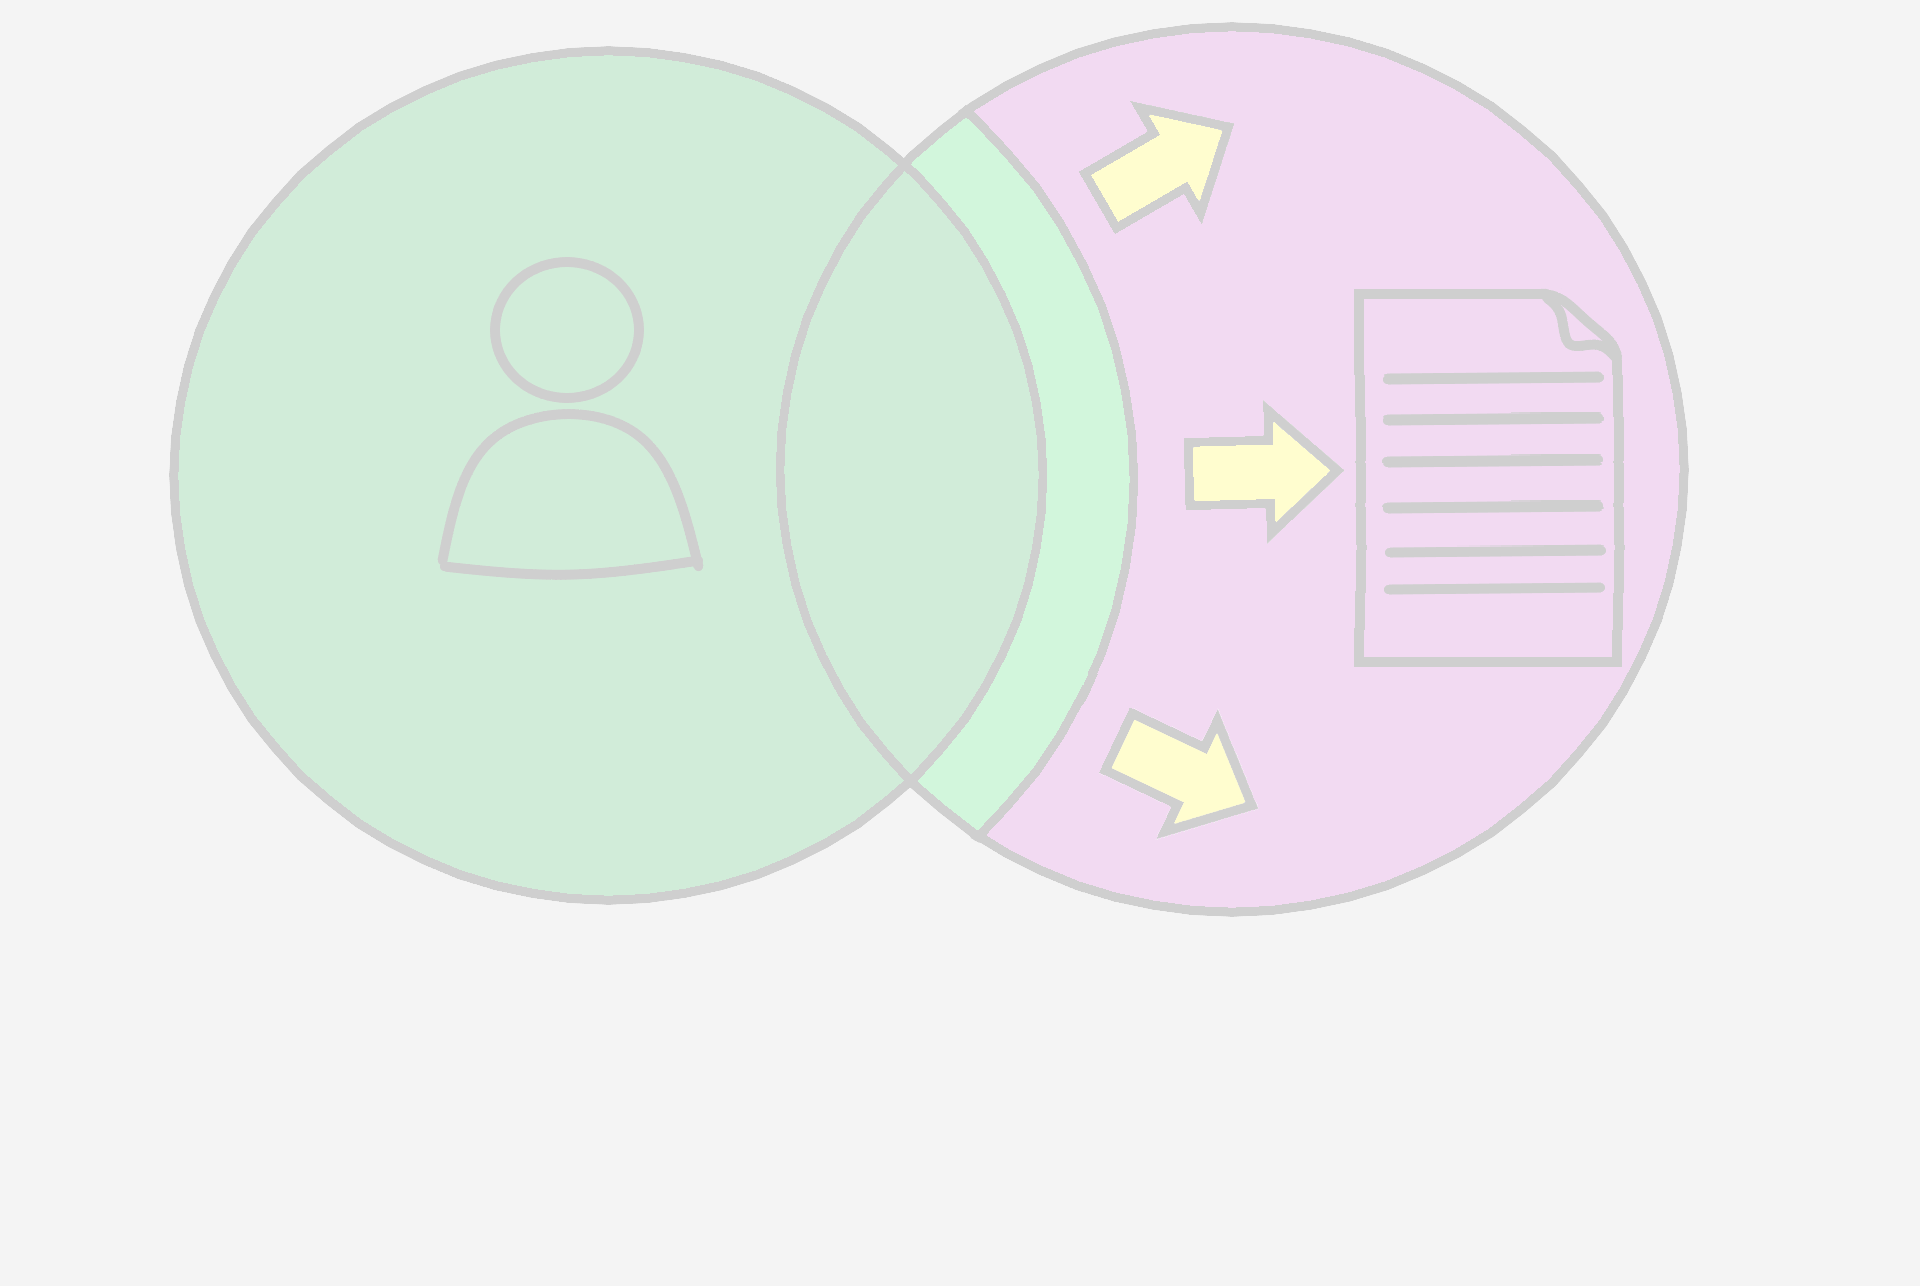
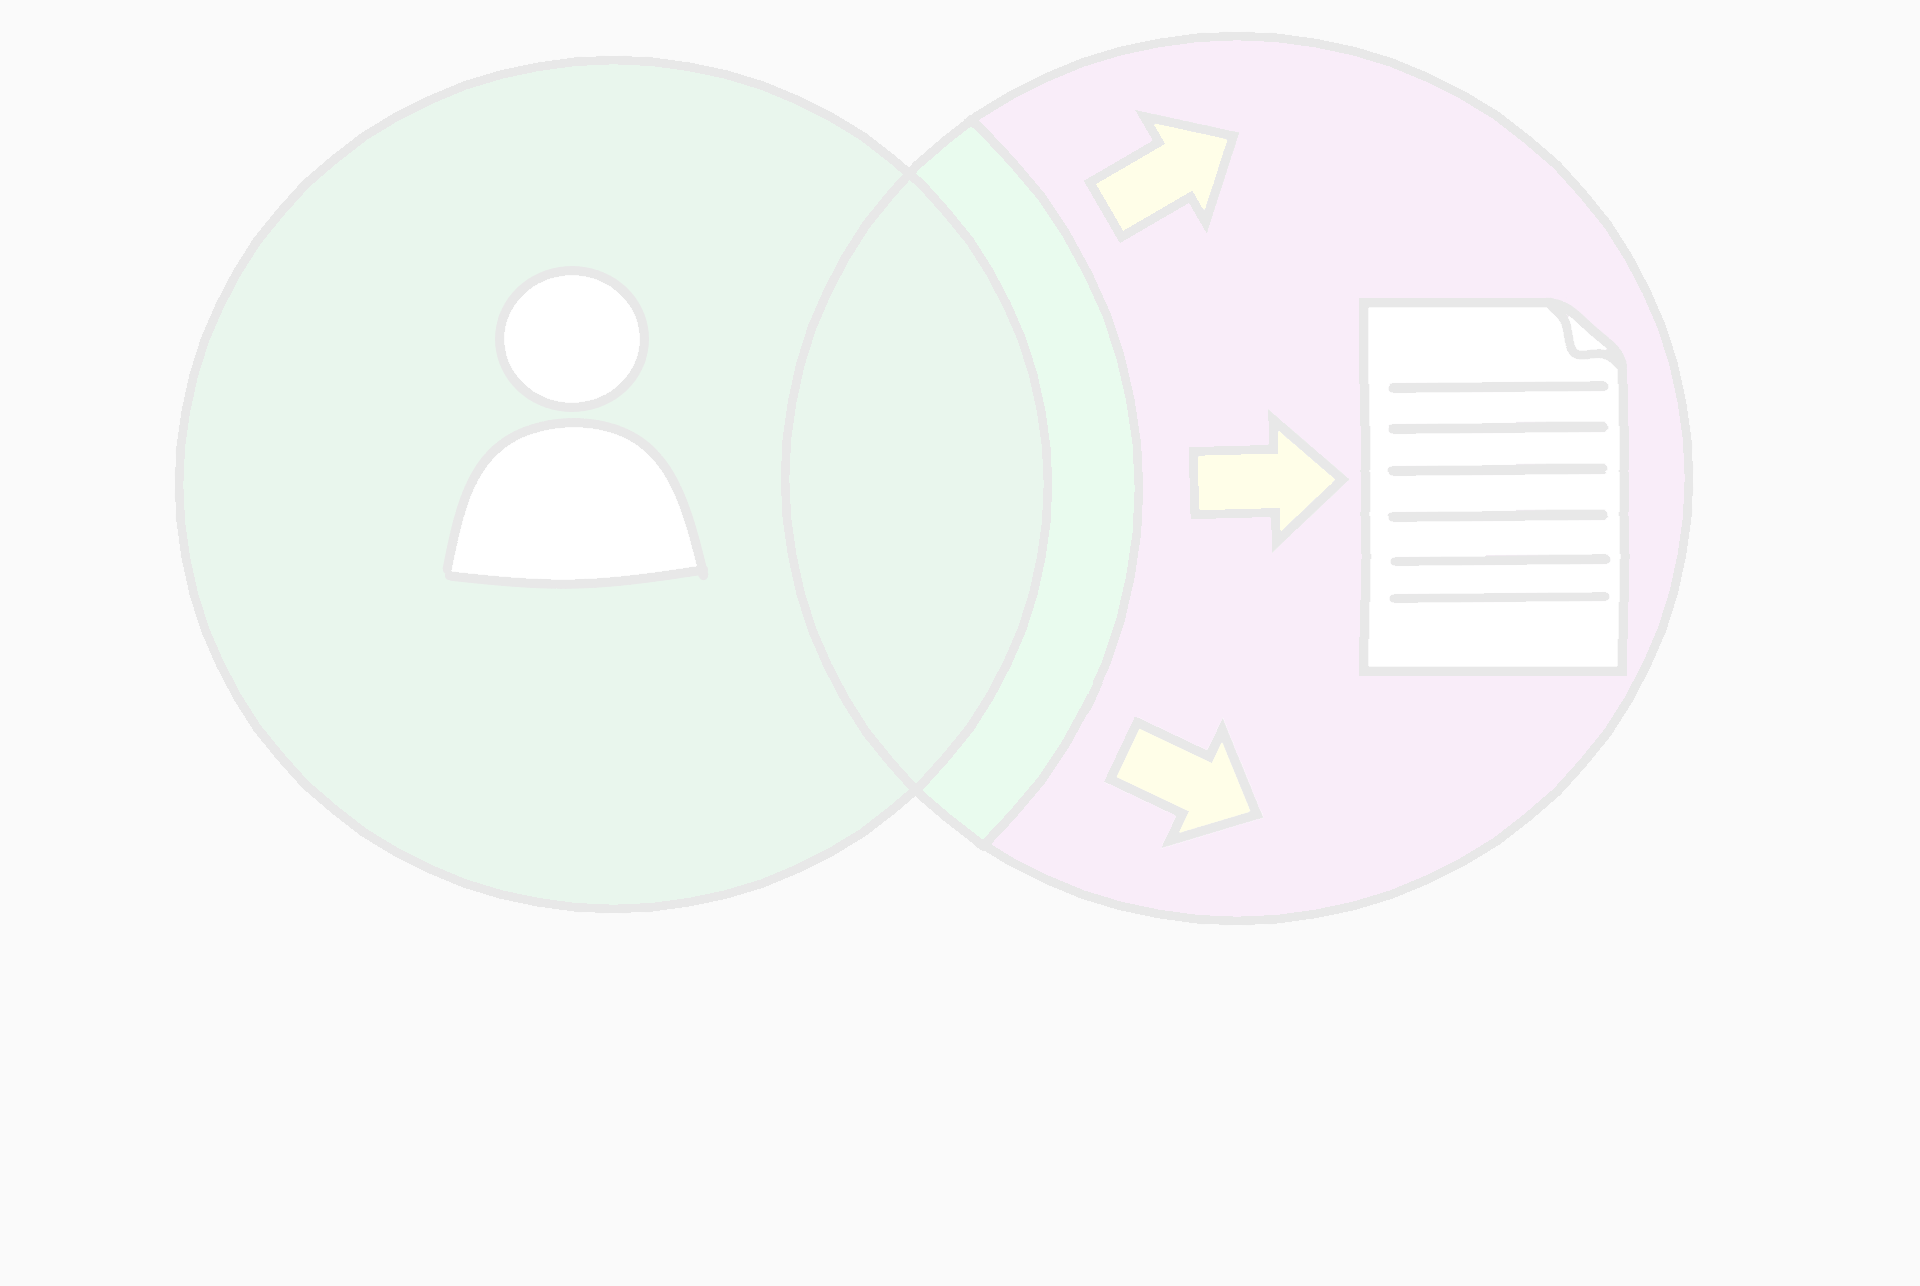
add last section picture

diff --git a/src/components/Landing.js b/src/components/Landing.js
@@ -21,7 +21,7 @@ const Landing = () => {
   return (
     <div>
         <section className="container mt-5">
-          <div className="jumbotron jumbotron-fluid jumbotron-pic1 p-3">
+          <div className="jumbotron jumbotron-trainer p-3">
               <h1 className="display-4">Check text and learn new words to read freely!</h1>
               <p className="lead">Upload text what you are going to read and learn new words with a special algorithm to prepare yourself before reading.</p>
               <hr className="my-4"/>
@@ -34,7 +34,7 @@ const Landing = () => {
           </div>
         </section>
         <section className="container mt-5">
-          <div className="jumbotron jumbotron-fluid jumbotron-pic2  p-3">
+          <div className="jumbotron jumbotron-fluid jumbotron-uploader  p-3">
               <h1 className="display-4">Build up your vocabulary quickly!</h1>
               <p className="lead">Build up your vocabulary, adding texts what you have already read.</p>
               <hr className="my-4"/>
@@ -47,15 +47,15 @@ const Landing = () => {
           </div>
         </section>
         <section className="container mt-5">
-          <div className="jumbotron jumbotron-fluid jumbotron-pic1 p-3">
-              <h1 className="display-4">Check text and learn new words to read freely!</h1>
+          <div className="jumbotron jumbotron-fluid jumbotron-corrector-translater p-3">
+              <h1 className="display-4">Translate and correct your vocabulary!</h1>
               <p className="lead text-secondary">Upload text what you are going to read and learn new words with a special algorithm to prepare yourself before reading.</p>
               <hr className="my-4"/>
               <p>
-              Upload text what you are going to read and analyze it against your vocabulary. Then learn new words with a special algorithm what let you pass through a list of words several times and learn words easily than ever. After that you can read your text freely without interrupting  that lead to better understanding.
+              .
               </p>
               <Link to="/trainer">
-                <a className="btn btn-primary btn-lg" href="" role="button">Analize text</a>
+                <a className="btn btn-success btn-lg" href="" role="button">Analize text</a>
               </Link>
           </div>
         </section>

diff --git a/src/index.css b/src/index.css
@@ -19,10 +19,14 @@ code {
   background-position: center top;
 }
 
-.jumbotron-pic1{
+.jumbotron-trainer{
   background-image: url(assets/trainer.png);
 }
 
-.jumbotron-pic2{
+.jumbotron-uploader{
   background-image: url(assets/uploader.png);
+}
+
+.jumbotron-corrector-translater{
+  background-image: url(assets/corrector-translater.png);
 }

diff --git a/src/pages/TemplatePage.js b/src/pages/TemplatePage.js
@@ -156,7 +156,9 @@ function TemplatePage(props) {
 
       <section className="container m-2">
         <div className="row">
-          {props.children}
+          <div className="col-12">
+            {props.children}
+          </div>       
         </div>
       </section>
 
